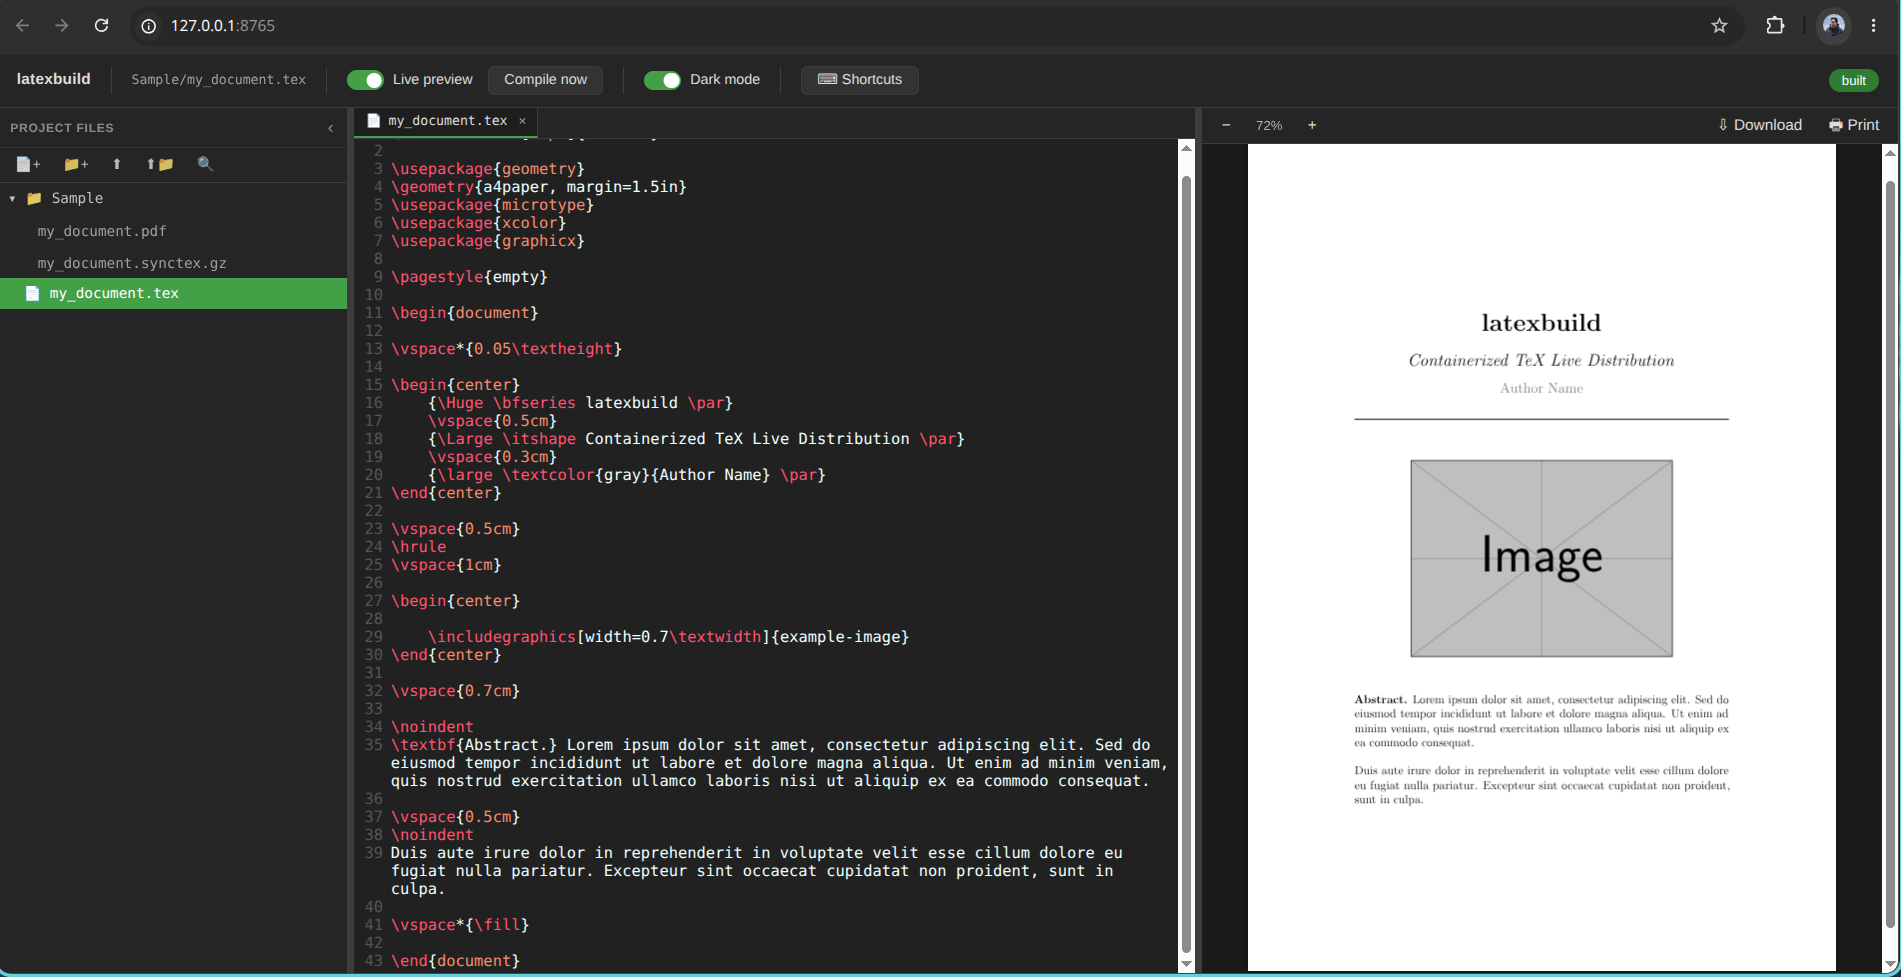
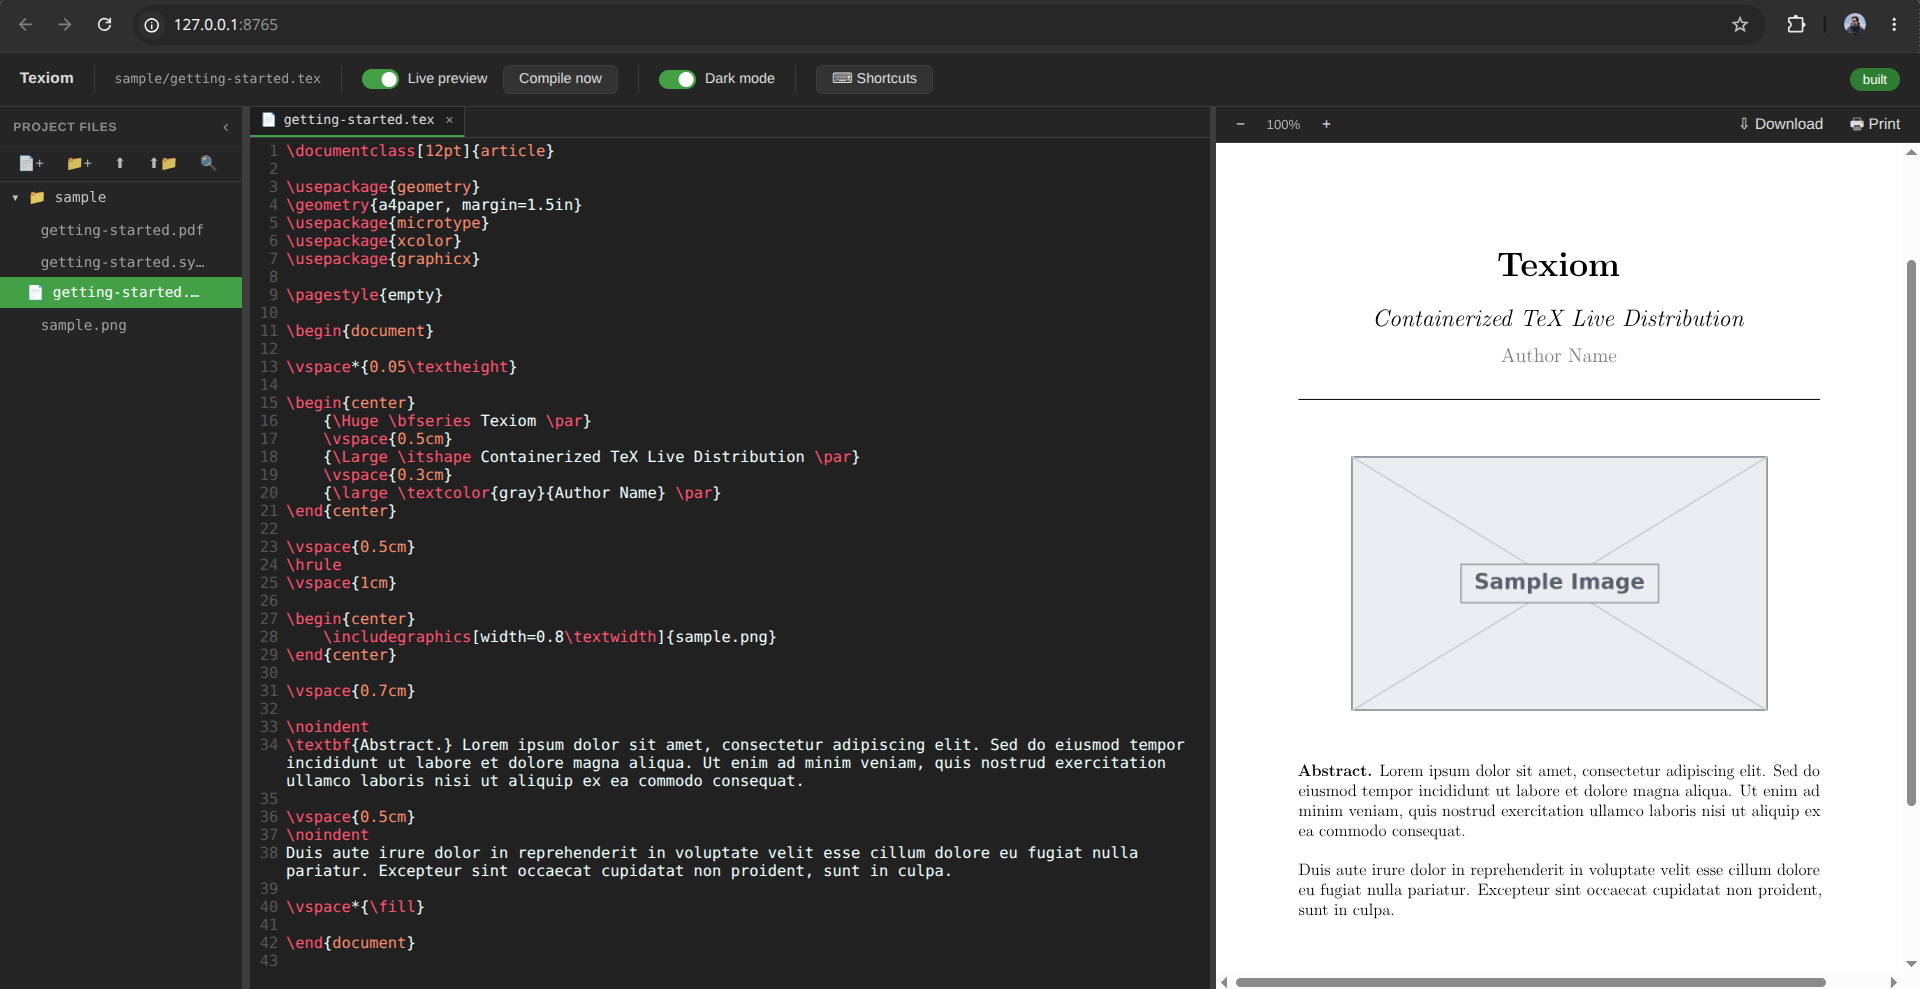
Rebranding

diff --git a/docker/editor/static/app.js b/docker/editor/static/app.js
@@ -18,7 +18,7 @@ function applyTheme(isDark) {
   document.documentElement.dataset.theme = isDark ? 'dark' : 'light';
 }
 
-const storedTheme = localStorage.getItem('latexbuild-theme');
+const storedTheme = localStorage.getItem('texiom-theme');
 const initialDark = storedTheme ? storedTheme === 'dark' : systemPrefersDark();
 darkToggle.checked = initialDark;
 applyTheme(initialDark);
@@ -33,7 +33,7 @@ darkToggle.addEventListener('change', () => {
   const isDark = darkToggle.checked;
   applyTheme(isDark);
   cm.setOption('theme', isDark ? 'material-darker' : 'default');
-  localStorage.setItem('latexbuild-theme', isDark ? 'dark' : 'light');
+  localStorage.setItem('texiom-theme', isDark ? 'dark' : 'light');
 });
 
 const pdfZoomInBtn = document.getElementById('pdfZoomIn');
@@ -758,7 +758,7 @@ const editorPane = document.getElementById('editor-pane');
 const dragDivider = document.getElementById('dragDivider');
 const containerEl = document.getElementById('container');
 
-const savedEditorWidth = parseFloat(localStorage.getItem('latexbuild-editor-width'));
+const savedEditorWidth = parseFloat(localStorage.getItem('texiom-editor-width'));
 if (!isNaN(savedEditorWidth)) editorPane.style.width = savedEditorWidth + '%';
 
 let dividerDragging = false;
@@ -790,10 +790,10 @@ window.addEventListener('mouseup', () => {
   dragDivider.classList.remove('dragging');
   document.body.style.cursor = '';
   document.body.style.userSelect = '';
-  localStorage.setItem('latexbuild-editor-width', parseFloat(editorPane.style.width));
+  localStorage.setItem('texiom-editor-width', parseFloat(editorPane.style.width));
 });
 
-const savedSidebarWidth = parseFloat(localStorage.getItem('latexbuild-sidebar-width'));
+const savedSidebarWidth = parseFloat(localStorage.getItem('texiom-sidebar-width'));
 if (!isNaN(savedSidebarWidth)) sidebar.style.width = savedSidebarWidth + 'px';
 
 let sidebarDividerDragging = false;
@@ -819,7 +819,7 @@ window.addEventListener('mouseup', () => {
   sidebarDragDivider.classList.remove('dragging');
   document.body.style.cursor = '';
   document.body.style.userSelect = '';
-  localStorage.setItem('latexbuild-sidebar-width', parseFloat(sidebar.style.width));
+  localStorage.setItem('texiom-sidebar-width', parseFloat(sidebar.style.width));
 });
 
 function buildTree(paths, dirs) {

diff --git a/docker/editor/static/index.html b/docker/editor/static/index.html
@@ -2,7 +2,8 @@
 <html>
 <head>
 <meta charset="utf-8">
-<title>latexbuild editor</title>
+<title>Texiom editor</title>
+<link rel="icon" type="image/png" href="/static/favicon.png">
 <link rel="stylesheet" href="https://cdn.jsdelivr.net/npm/codemirror@5.65.16/lib/codemirror.min.css">
 <link rel="stylesheet" href="https://cdn.jsdelivr.net/npm/codemirror@5.65.16/theme/material-darker.css">
 <link rel="stylesheet" href="https://cdn.jsdelivr.net/npm/codemirror@5.65.16/addon/dialog/dialog.css">
@@ -20,7 +21,7 @@
 </head>
 <body>
 <header id="toolbar">
-  <div class="toolbar-brand">latexbuild</div>
+  <div class="toolbar-brand">Texiom</div>
 
   <div class="toolbar-divider"></div>
 
@@ -145,7 +146,7 @@
   <div class="stopped-box">
     <div class="stopped-icon">&#9209;</div>
     <div class="stopped-title">Session stopped</div>
-    <div class="stopped-sub">Run <code>latexbuild --edit</code> again — this tab will resume automatically once it's back. A new tab may also open; you can close whichever one you don't need.</div>
+    <div class="stopped-sub">Run <code>texiom --edit</code> again — this tab will resume automatically once it's back. A new tab may also open; you can close whichever one you don't need.</div>
   </div>
 </div>
 <div id="expiredOverlay">

diff --git a/docker/editor/templates/sample/getting-started.tex b/docker/editor/templates/sample/getting-started.tex
@@ -1,0 +1,42 @@
+\documentclass[12pt]{article}
+
+\usepackage{geometry}
+\geometry{a4paper, margin=1.5in}
+\usepackage{microtype}
+\usepackage{xcolor}
+\usepackage{graphicx}
+
+\pagestyle{empty}
+
+\begin{document}
+
+\vspace*{0.05\textheight}
+
+\begin{center}
+    {\Huge \bfseries Texiom \par}
+    \vspace{0.5cm}
+    {\Large \itshape Containerized TeX Live Distribution \par}
+    \vspace{0.3cm}
+    {\large \textcolor{gray}{Author Name} \par}
+\end{center}
+
+\vspace{0.5cm}
+\hrule
+\vspace{1cm}
+
+\begin{center}
+    \includegraphics[width=0.8\textwidth]{sample.png}
+\end{center}
+
+\vspace{0.7cm}
+
+\noindent
+\textbf{Abstract.} Lorem ipsum dolor sit amet, consectetur adipiscing elit. Sed do eiusmod tempor incididunt ut labore et dolore magna aliqua. Ut enim ad minim veniam, quis nostrud exercitation ullamco laboris nisi ut aliquip ex ea commodo consequat.
+
+\vspace{0.5cm}
+\noindent
+Duis aute irure dolor in reprehenderit in voluptate velit esse cillum dolore eu fugiat nulla pariatur. Excepteur sint occaecat cupidatat non proident, sunt in culpa.
+
+\vspace*{\fill}
+
+\end{document}

diff --git a/docker/editor/server.py b/docker/editor/server.py
@@ -15,9 +15,25 @@ from fastapi.responses import FileResponse, JSONResponse, PlainTextResponse, Res
 from fastapi.staticfiles import StaticFiles
 
 STATIC_DIR = Path(__file__).parent / "static"
+TEMPLATES_DIR = Path(__file__).parent / "templates"
 
 WORKSPACE_ROOT = Path.cwd().resolve()
-STATE_FILE = WORKSPACE_ROOT / ".latexbuild-state.json"
+STATE_FILE = WORKSPACE_ROOT / ".texiom-state.json"
+SEED_MARKER = WORKSPACE_ROOT / ".texiom-seeded"
+
+
+def seed_workspace_if_empty():
+    if SEED_MARKER.exists():
+        return
+    has_content = any(not p.name.startswith(".") for p in WORKSPACE_ROOT.iterdir())
+    if not has_content:
+        sample_src = TEMPLATES_DIR / "sample"
+        if sample_src.is_dir():
+            shutil.copytree(sample_src, WORKSPACE_ROOT / "sample")
+    SEED_MARKER.touch()
+
+
+seed_workspace_if_empty()
 
 TEX_FILE = None
 PDF_FILE = None

diff --git a/README.md b/README.md
@@ -1,8 +1,8 @@
-<img src="assets/logo.png" alt="latexbuild logo" width="160">
+<img src="assets/logo.png" alt="Texiom logo" width="160">
 
-# latexbuild
+# Texiom
 
-[![Version](https://img.shields.io/github/v/release/MrzAhmadi/latexbuild)](https://github.com/MrzAhmadi/latexbuild/releases)
+[![Version](https://img.shields.io/github/v/release/MrzAhmadi/texiom)](https://github.com/MrzAhmadi/texiom/releases)
 
 Compile any `.tex` file into a PDF using a containerized, full TeX Live
 distribution — no LaTeX installation required on the host machine.
@@ -12,7 +12,7 @@ distribution — no LaTeX installation required on the host machine.
 Installing a full TeX Live distribution locally is slow, large, and easy to
 get out of sync across machines. This project packages `texlive-full`,
 `latexmk`, and `biber` into a single Docker image (also usable as a VS Code
-Dev Container) and provides a small `latexbuild` command that compiles any
+Dev Container) and provides a small `texiom` command that compiles any
 `.tex` file on your host by mounting its directory into the container.
 
 ## Requirements
@@ -25,43 +25,43 @@ No LaTeX distribution needs to be installed on the host.
 ## Installation
 
 Download the latest release from the
-[Releases page](https://github.com/MrzAhmadi/latexbuild/releases).
+[Releases page](https://github.com/MrzAhmadi/texiom/releases).
 
 **Debian / Ubuntu:**
 
 ```bash
-sudo dpkg -i latexbuild_*.deb
+sudo dpkg -i texiom_*.deb
 ```
 
 **Fedora / RHEL:**
 
 ```bash
-sudo rpm -i latexbuild-*.rpm
+sudo rpm -i texiom-*.rpm
 ```
 
 **Any other Linux (generic tarball):**
 
 ```bash
-tar -xzf latexbuild-*-linux.tar.gz
-cd latexbuild-*/
+tar -xzf texiom-*-linux.tar.gz
+cd texiom-*/
 sudo ./install.sh
 ```
 
-Each of these installs a `latexbuild` command onto your `PATH`, usable from
+Each of these installs a `texiom` command onto your `PATH`, usable from
 any directory.
 
 **Running from a git checkout without installing:**
 
 ```bash
-git clone https://github.com/MrzAhmadi/latexbuild.git
-cd latexbuild
-./latexbuild
+git clone https://github.com/MrzAhmadi/texiom.git
+cd texiom
+./texiom
 ```
 
 ## Usage
 
 ```bash
-latexbuild
+texiom
 ```
 
 It will interactively ask for the path to your `.tex` file (tab-completion
@@ -74,7 +74,7 @@ Path to the .tex file (or its directory): /path/to/your/project/paper.tex
 Or run it non-interactively:
 
 ```bash
-latexbuild --dir /path/to/your/project --file paper.tex
+texiom --dir /path/to/your/project --file paper.tex
 ```
 
 The resulting `paper.pdf` (and all `latexmk` auxiliary files) will appear
@@ -84,7 +84,7 @@ just want the `.pdf` and none of the auxiliary files.
 To rebuild automatically every time you save the file, pass `--watch`:
 
 ```bash
-latexbuild --dir /path/to/your/project --file paper.tex --watch
+texiom --dir /path/to/your/project --file paper.tex --watch
 ```
 
 This keeps running in the foreground and recompiles on every change to
@@ -99,19 +99,18 @@ spurious `latexmk` errors.
 For a rebuild-as-you-type experience, pass `--edit`:
 
 ```bash
-latexbuild --edit
+texiom --edit
 ```
 
-![latexbuild live browser editor](assets/sc1.png)
+![Texiom live browser editor](assets/sc1.png)
 
 No `--dir`/`--file` needed - the editor's project lives entirely inside a
-persistent Docker volume (`latexbuild-workspace`), not on your host
-filesystem. The first time you run it the project is empty; use the
-sidebar to create folders/files, upload existing files (images, `.bib`,
-etc.), rename, and delete - everything is managed from the browser. The
-volume persists across sessions, so your project is exactly as you left
-it the next time you run `latexbuild --edit`, even after the container
-exits.
+persistent Docker volume (`texiom-workspace`), not on your host
+filesystem. Use the sidebar to create folders/files, upload existing files
+(images, `.bib`, etc.), rename, and delete - everything is managed from
+the browser. The volume persists across sessions, so your project is
+exactly as you left it the next time you run `texiom --edit`, even after
+the container exits.
 
 The browser splits in two: your `.tex`/`.bib` source on the left, the
 compiled PDF on the right, with a file-tree sidebar for the project. Every
@@ -124,7 +123,7 @@ compile manually or switch to dark mode; the sidebar lets you switch
 between open files via tabs - see the in-app "⌨ Shortcuts" menu (or press
 F1) for the full list of keyboard shortcuts, including Ctrl+S to save.
 Ctrl+C in the terminal stops the session; the tab picks back up on its
-own once you run `--edit` again. Run `latexbuild --kill-edit` if you need
+own once you run `--edit` again. Run `texiom --kill-edit` if you need
 to stop a session without a terminal open (e.g. it's stuck or was
 disowned).
 
@@ -133,7 +132,7 @@ It's a small local web server (source and PDF only ever touch
 extensions beyond what's listed above.
 
 To wipe the persistent project and start over: `docker volume rm
-latexbuild-workspace` (only while no `--edit` session is running).
+texiom-workspace` (only while no `--edit` session is running).
 
 #### Rebuilding as you type, before you save (using your own editor instead)
 
@@ -166,7 +165,7 @@ Ctrl+S needed.
 |-------------------|-------------------------------------------------------------|
 | `-d, --dir DIR`   | Directory containing the `.tex` file (not used with `--edit`) |
 | `-f, --file FILE` | Name of the `.tex` file (`.tex` extension optional); not used with `--edit` |
-| `-t, --tag TAG`   | Docker image tag to use/build (default: `latexbuild`)         |
+| `-t, --tag TAG`   | Docker image tag to use/build (default: `texiom`)         |
 | `-r, --rebuild`   | Force a fresh image build even if one already exists        |
 | `-p, --pdf-only`  | Remove `latexmk`'s auxiliary files after a successful build, leaving only the `.pdf` |
 | `-w, --watch`     | Rebuild automatically whenever the `.tex` file changes, until Ctrl+C |
@@ -177,7 +176,7 @@ Ctrl+S needed.
 
 The first run builds the Docker image (a few minutes, since `texlive-full`
 is a large distribution); every run after that reuses the cached image, so
-compilation is fast. Upgrading `latexbuild` to a new version automatically
+compilation is fast. Upgrading `texiom` to a new version automatically
 rebuilds the image once if that version needs a different one - no manual
 `--rebuild` required.
 
@@ -188,7 +187,7 @@ VS Code with the [Dev Containers extension](https://marketplace.visualstudio.com
 and choose "Reopen in Container" for an interactive environment with the
 LaTeX Workshop extension pre-configured to build on save.
 
-## Using latexbuild as a GitHub Action
+## Using Texiom as a GitHub Action
 
 The same image is published to GHCR and available as a reusable GitHub
 Action, so any repo with a `.tex` file can build a PDF on every push
@@ -196,7 +195,7 @@ without installing anything:
 
 ```yaml
 - uses: actions/checkout@v4
-- uses: MrzAhmadi/latexbuild@main
+- uses: MrzAhmadi/texiom@main
   with:
     root_file: paper.tex
 ```
@@ -230,7 +229,7 @@ jobs:
     steps:
       - uses: actions/checkout@v4
 
-      - uses: MrzAhmadi/latexbuild@main
+      - uses: MrzAhmadi/texiom@main
         with:
           root_file: paper.tex
 
@@ -238,13 +237,6 @@ jobs:
         with:
           files: paper.pdf
 ```
-
-## What's inside the image
-
-- Ubuntu 24.04
-- `texlive-full` (covers `moderncv`, `biblatex`/`biber`, IEEE conference
-  classes, `tcolorbox`, `mdframed`, and virtually any other LaTeX package)
-- `latexmk`, `biber`, `make`, `git`
 
 ## License
 
